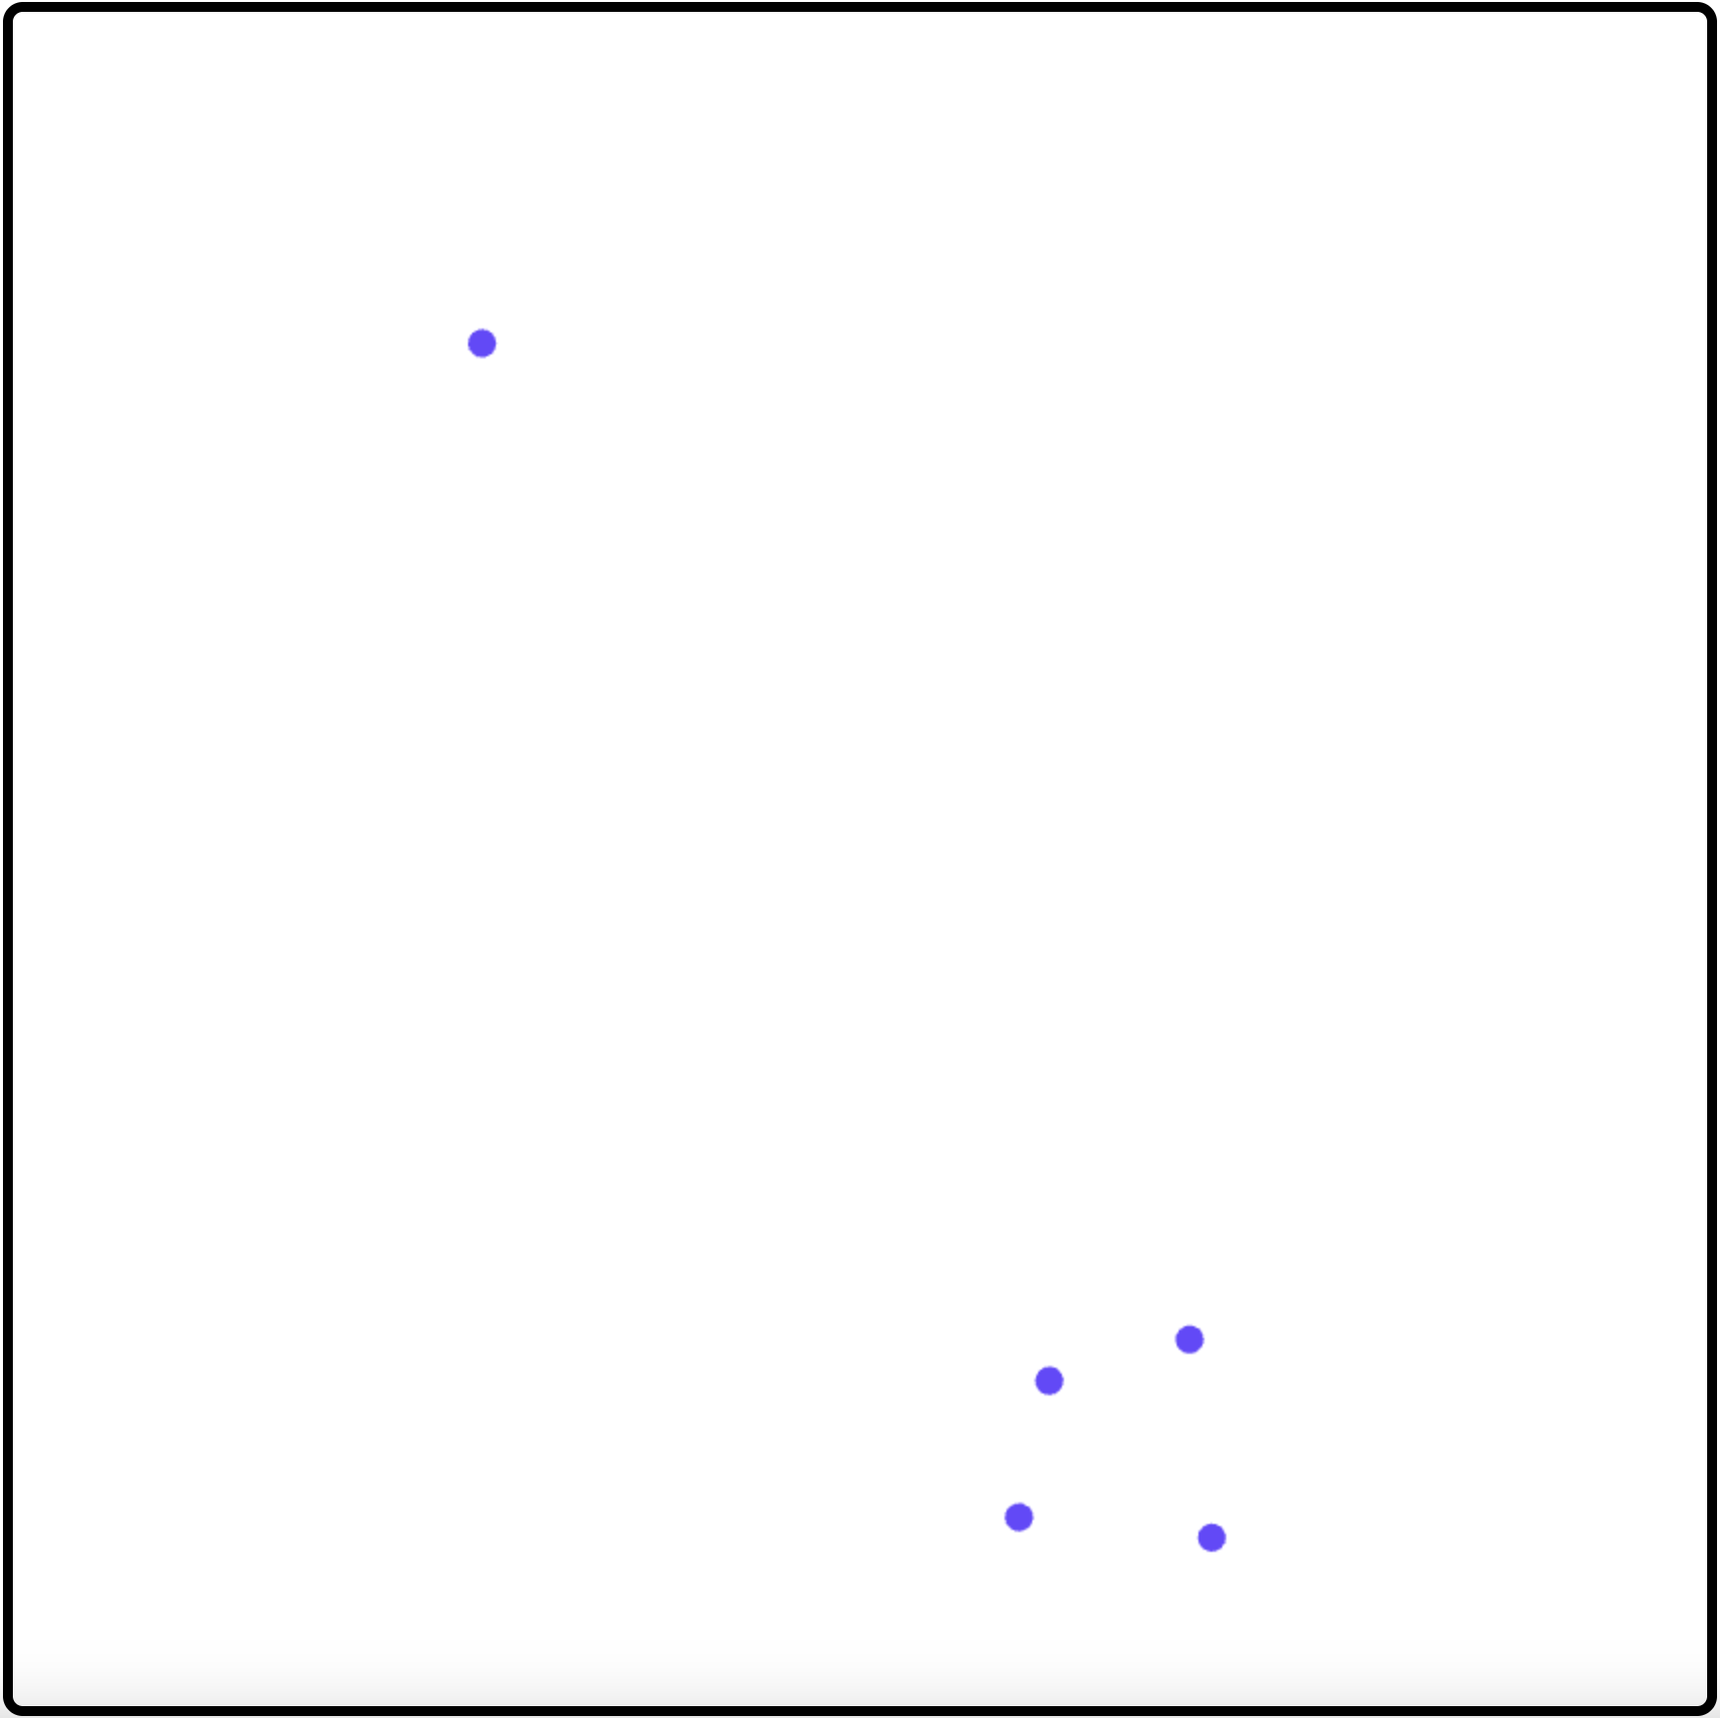
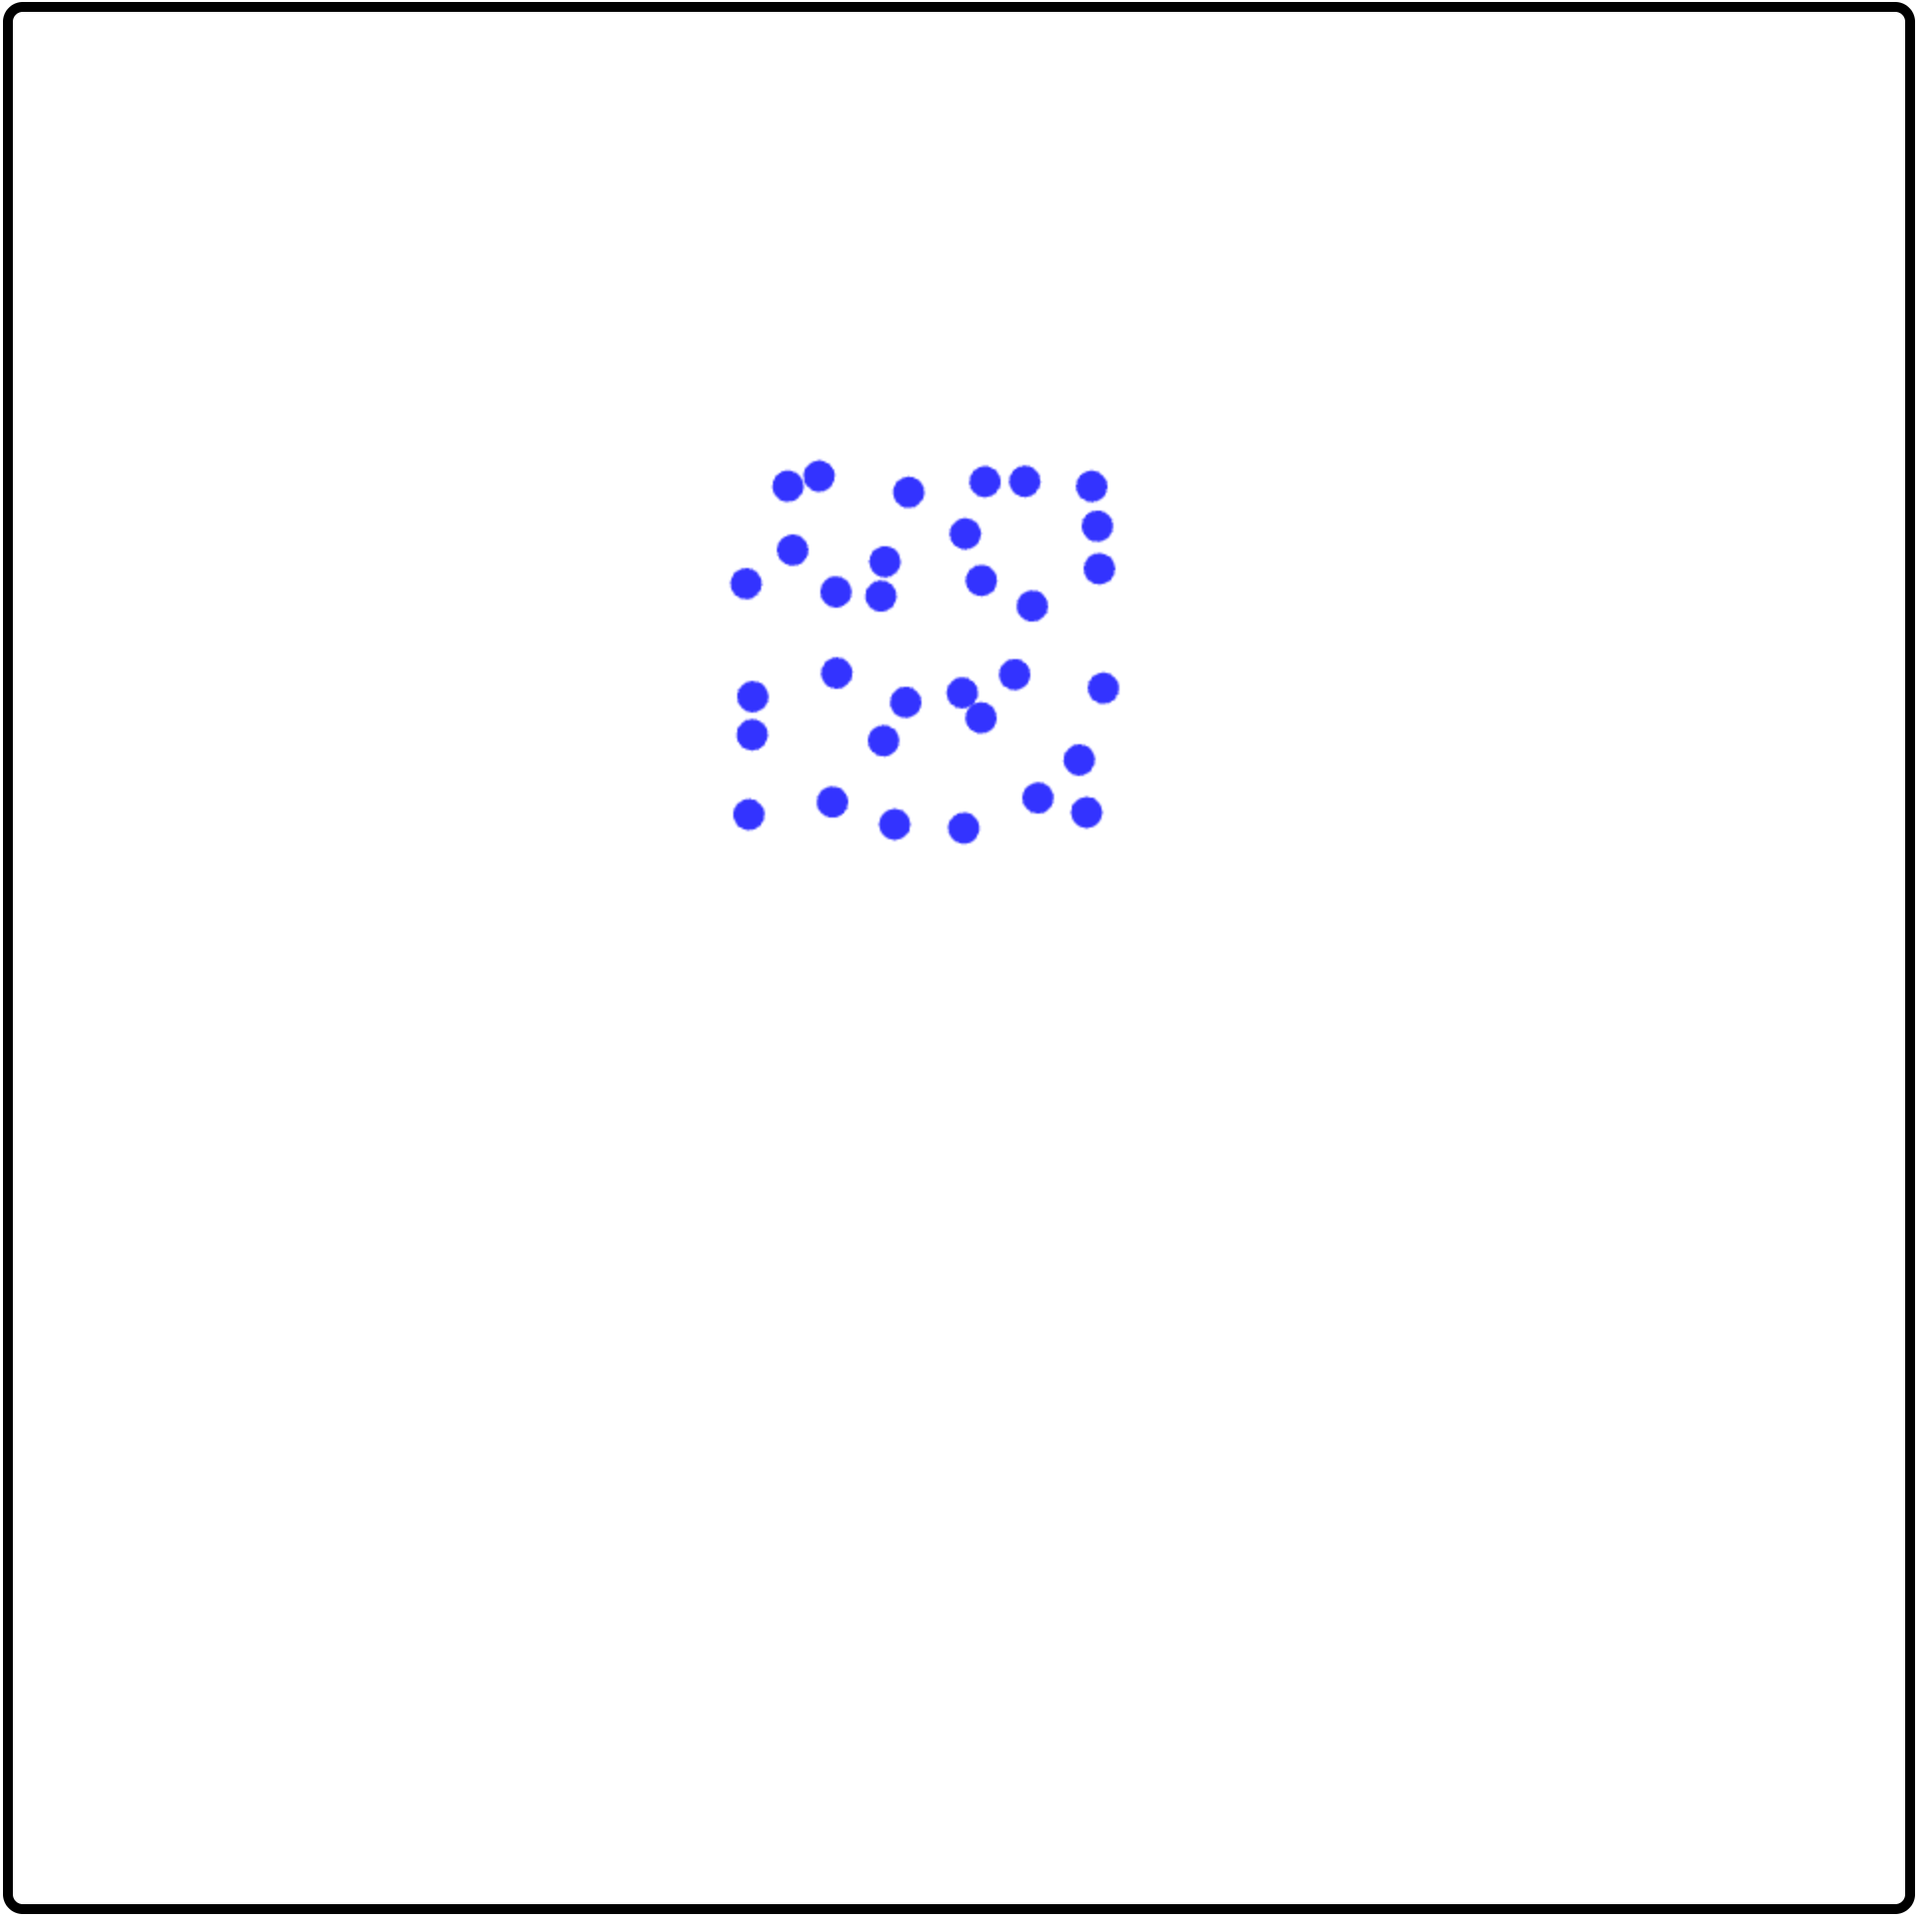
changes

diff --git a/Outlier_only/dist/canvas.js b/Outlier_only/dist/canvas.js
@@ -69,16 +69,19 @@ size_pairs = [
     [4, 0],
     [8, 0],
     [16, 0],
+    [32, 0],
+    [2, 1],
     [4, 1],
     [8, 1],
-    [16, 1]
+    [16, 1],
+    [32, 1]
 ];
 
 // Varying overall precision
 range_multiplier = [1];
 
 // Outlier distance multiplier
-dist_multiplier = [3, 6, 9];
+dist_multiplier = [6, 9];
 
 // Group mean to center
 group_mean_to_center = group_range_unit;
@@ -88,20 +91,20 @@ var means_index = jStat.seq(0, 11, 12);
 
 // Indexing rule: [group_1_size, group_2_size, range_multiplier, trial index]
 // Attention check trial (6)
-var attention = [4, 16, 1, -1];
+var attention = [4, 16, 1, 6, -1];
 
 // Practice trial
-var practice_1 = [4, 0, 1, 3, -2];
-var practice_2 = [8, 0, 1, 3, -3];
-var practice_3 = [4, 1, 1, 9, -4];
-var practice_4 = [16, 1, 1, 6, -5];
-var practice_5 = [8, 1, 1, 3, -6];
-var practice_6 = [16, 0, 1, 3, -7];
+var practice_1 = [4, 0, 1, 6, -2];
+var practice_2 = [8, 1, 1, 9, -3];
+var practice_3 = [4, 1, 1, 6, -4];
+var practice_4 = [16, 0, 1, 6, -5];
+var practice_5 = [32, 0, 1, 6, -6];
+var practice_6 = [2, 1, 1, 6, -7];
 
 // Trial structure: 6 practice trials + 18*36 = 648 (experimental trials) + 6 attention-check trials = 660 trials
-var trial_size_pairs = repeat_whole_single(repeat_each_array(size_pairs, 3), 36);
+var trial_size_pairs = repeat_whole_single(repeat_each_array(size_pairs, 2), 36);
 var trial_size_sd = repeat_each_single(range_multiplier, 648);
-var trial_size_dist = repeat_each_single(dist_multiplier, 216);
+var trial_size_dist = repeat_each_single(dist_multiplier, 324);
 var trial_means_index = repeat_whole_single(repeat_each_single(means_index, 18), 3);
 var trial_index = combineArray(trial_size_pairs, trial_size_sd);
 trial_index = combineArray(trial_index, trial_size_dist);
@@ -124,7 +127,7 @@ trial_index.splice(0, 0, practice_2);
 trial_index.splice(0, 0, practice_1);
 
 console.log(trial_index);
-console.log(trial_index[0][1])
+console.log(trial_index[0][1]);
 var sub_canvas_center_list = [];
 for (let i = 0; i < 660; i++) {
     if (trial_index[i][1] == 1) {
@@ -208,24 +211,24 @@ function get_positions(trial_index) {
     // var practice_3 = [4, 1, 1, 3, -4];
 
     //recenter
-    if (trial_index[3] == -1) {
-        group_1_coord.map(x => x.x = trial_index[4] + x.x * trial_index[2] * (group_range_unit));
-        group_1_coord.map(x => x.y = trial_index[5] + x.y * trial_index[2] * (group_range_unit));
-        group_2_coord.map(x => x.x = trial_index[4] + x.x * trial_index[2] * (group_range_unit));
-        group_2_coord.map(x => x.y = trial_index[5] + x.y * trial_index[2] * (group_range_unit));
+    if (trial_index[4] == -1) {
+        group_1_coord.map(x => x.x = trial_index[5] + x.x * trial_index[2] * (group_range_unit));
+        group_1_coord.map(x => x.y = trial_index[6] + x.y * trial_index[2] * (group_range_unit));
+        group_2_coord.map(x => x.x = trial_index[5] + x.x * trial_index[2] * (group_range_unit));
+        group_2_coord.map(x => x.y = trial_index[6] + x.y * trial_index[2] * (group_range_unit));
         all_coord = group_1_coord.concat(group_2_coord);
-    } else if (trial_index[1] == 0){
+    } else if (trial_index[1] == 0) {
         group_1_coord.map(x => x.x = (trial_index[5] + group_mean_to_center * Math.cos(degToRad(180 + trial_index[4] * 30))) + x.x * trial_index[2] * (group_range_unit));
         group_1_coord.map(x => x.y = trial_index[6] + group_mean_to_center * Math.sin(degToRad(180 + trial_index[4] * 30)) + x.y * trial_index[2] * (group_range_unit));
         // group_2_coord.x = null;
         // group_2_coord.y = null;
         all_coord = group_1_coord;
     } else if (trial_index[1] == 1) {
-        group_1_coord.map(x => x.x = (trial_index[5] + trial_index[3]*group_mean_to_center * Math.cos(degToRad(180 + trial_index[4] * 30))) + x.x * trial_index[2] * (group_range_unit));
-        group_1_coord.map(x => x.y = trial_index[6] + trial_index[3]*group_mean_to_center * Math.sin(degToRad(180 + trial_index[4] * 30)) + x.y * trial_index[2] * (group_range_unit));
+        group_1_coord.map(x => x.x = (trial_index[5] + trial_index[3] * group_mean_to_center * Math.cos(degToRad(180 + trial_index[4] * 30))) + x.x * trial_index[2] * (group_range_unit));
+        group_1_coord.map(x => x.y = trial_index[6] + trial_index[3] * group_mean_to_center * Math.sin(degToRad(180 + trial_index[4] * 30)) + x.y * trial_index[2] * (group_range_unit));
 
-        group_2_coord.x = trial_index[5] + trial_index[3]*group_mean_to_center * Math.cos(degToRad(trial_index[4] * 30));
-        group_2_coord.y = trial_index[6] + trial_index[3]*group_mean_to_center * Math.sin(degToRad(trial_index[4] * 30));
+        group_2_coord.x = trial_index[5] + trial_index[3] * group_mean_to_center * Math.cos(degToRad(trial_index[4] * 30));
+        group_2_coord.y = trial_index[6] + trial_index[3] * group_mean_to_center * Math.sin(degToRad(trial_index[4] * 30));
 
         all_coord = group_1_coord.concat([group_2_coord]);
     };

diff --git a/Outlier_only/dist/trial.js b/Outlier_only/dist/trial.js
@@ -137,7 +137,8 @@ function trialDone() {
         group_1_size: trial_index[trialNumber][0],
         group_2_size: trial_index[trialNumber][1],
         group_sd: trial_index[trialNumber][2],
-        mean_index: trial_index[trialNumber][3],
+        group_dist: trial_index[trialNumber][3],
+        mean_index: trial_index[trialNumber][4],
         group_1_coord: group_1_coord,
         group_2_coord: group_2_coord,
         all_coordinates: all_coord,
